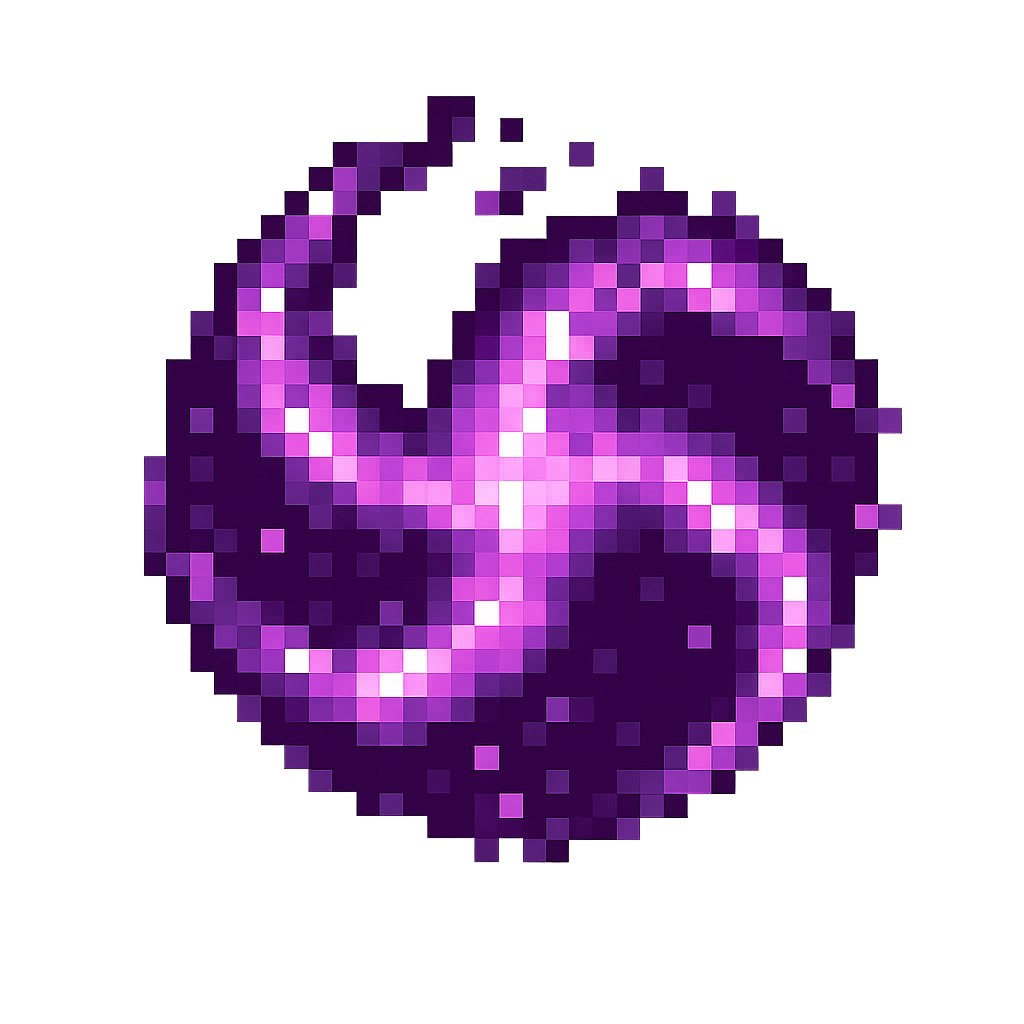
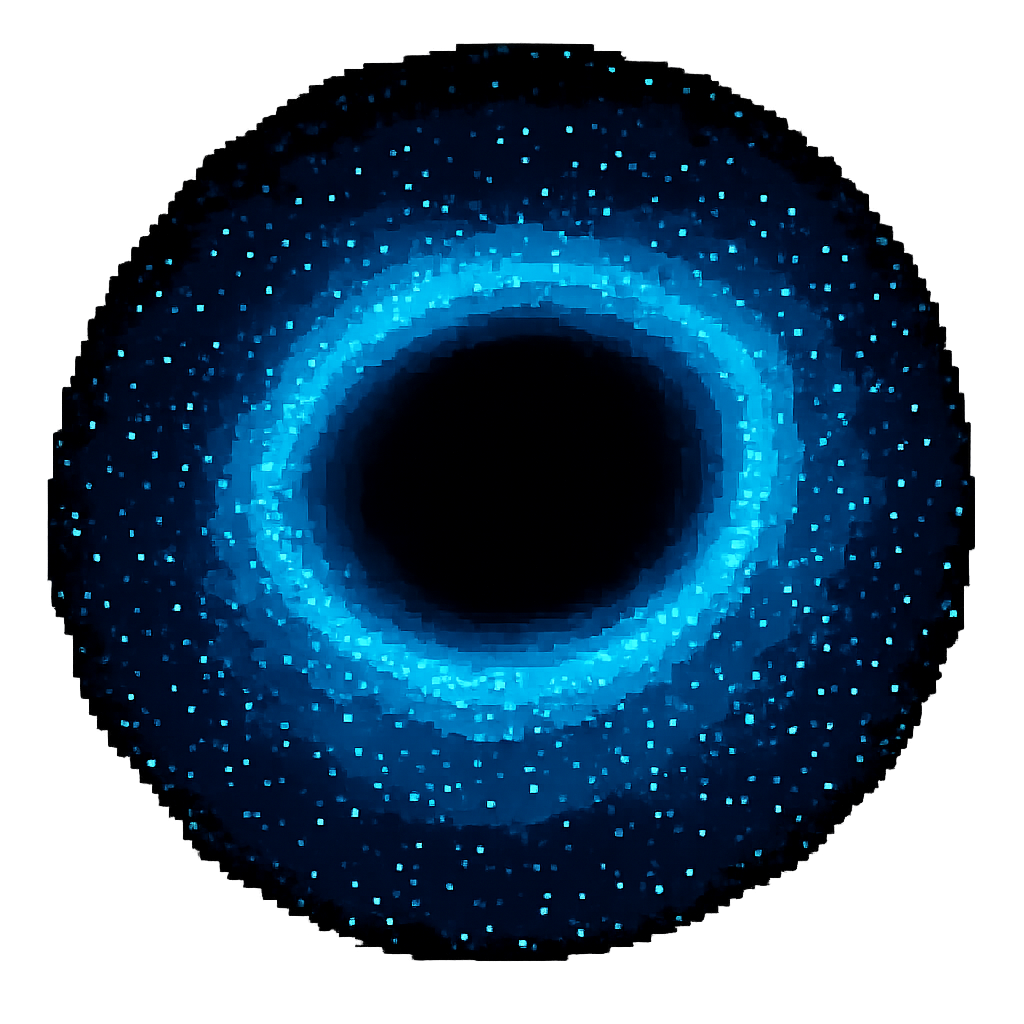
assets fixed

diff --git a/main.js b/main.js
@@ -374,7 +374,7 @@ class MainScene extends Phaser.Scene {
     // diameter, comfortable on the larger 1920x1080 canvas), evenly spaced
     // around it so none ever overlap or sit close together.
     this.blackHoleCount = 8;
-    this.blackHoleRadius = 20;      // Drawn radius of each Black Hole's circle placeholder
+    this.blackHoleRadius = 50;      // Drawn radius of each Black Hole's circle placeholder
     this.blackHoleDistanceFromCenter =
       this.earthRadius + 4.5 * (this.earthRadius * 2); // surface + 4.5x Earth's diameter
     this.blackHoleOrbitRadius = this.blackHoleRadius + 30; // satellite's docking ring: 30px out from the surface
@@ -583,7 +583,7 @@ class MainScene extends Phaser.Scene {
         .setStrokeStyle(2, 0xaa66ff, 0.3);
 
       const label = this.add.text(x, y, String(id), {
-        fontSize: '14px',
+        fontSize: '22px',
         color: '#ffffff',
         fontStyle: 'bold',
       });